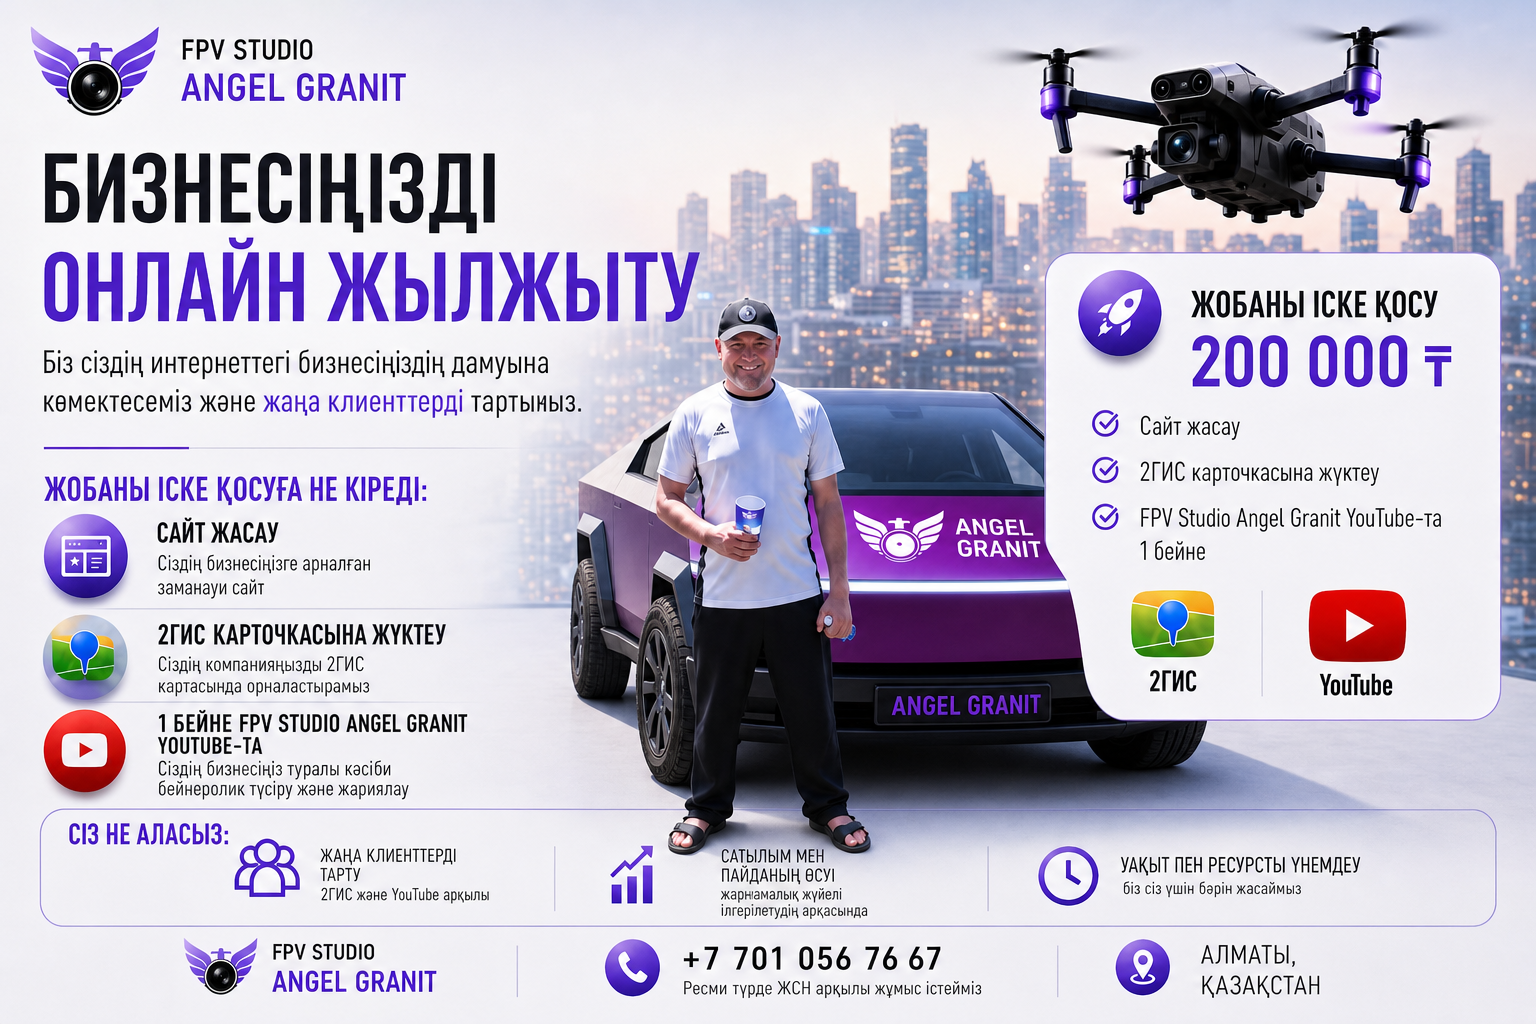
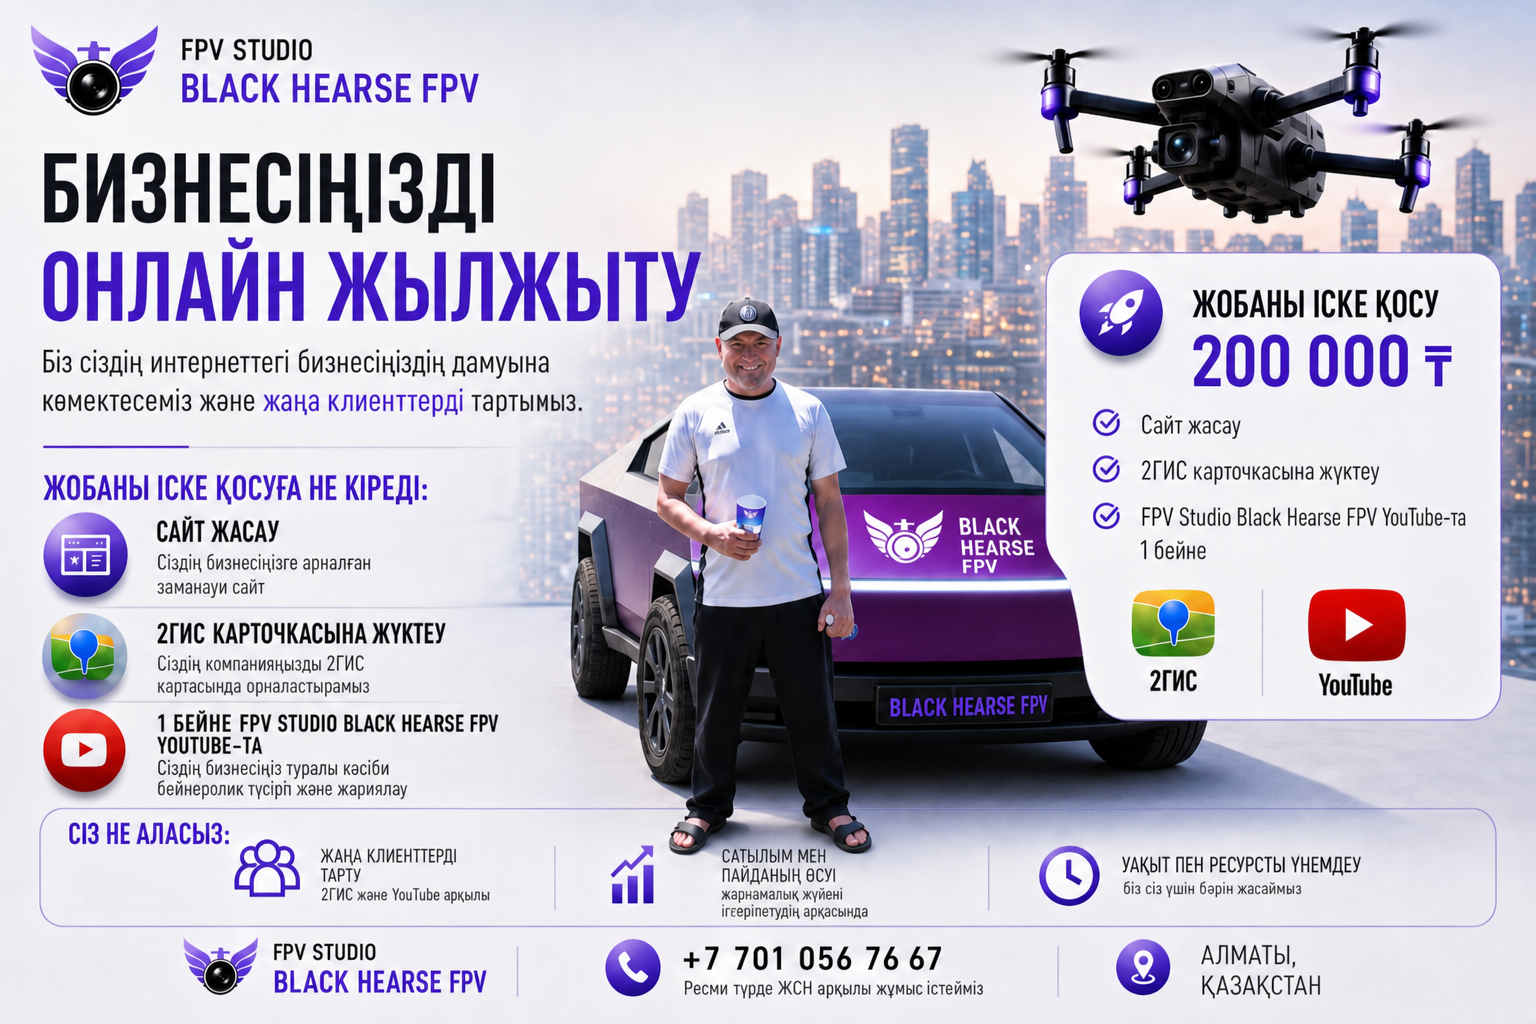
Rebrand site from Angel Granit to Black Hearse FPV.
Update copy, links, and offer banners so the new brand name is consistent on the site and images.

diff --git a/index.html b/index.html
@@ -3,13 +3,13 @@
 <head>
   <meta charset="UTF-8" />
   <meta name="viewport" content="width=device-width, initial-scale=1.0" />
-  <title>Angel Granit · Сайты · YouTube · Синематик · 2ГИС</title>
-  <meta name="description" content="Angel Granit — FPV-студия полного цикла: создание сайтов, запуск YouTube-каналов, кинематографичная FPV-съёмка для бизнеса, оформление карточек 2ГИС." />
+  <title>Black Hearse FPV · Сайты · YouTube · Синематик · 2ГИС</title>
+  <meta name="description" content="Black Hearse FPV — FPV-студия полного цикла: создание сайтов, запуск YouTube-каналов, кинематографичная FPV-съёмка для бизнеса, оформление карточек 2ГИС." />
   <meta name="robots" content="index, follow" />
   <link rel="canonical" href="https://shniakin8711-collab.github.io/Myferstproject.github.io/" />
   <meta property="og:type" content="website" />
   <meta property="og:locale" content="ru_RU" />
-  <meta property="og:title" content="Angel Granit · Цифровое производство и FPV-синематик" />
+  <meta property="og:title" content="Black Hearse FPV · Цифровое производство и FPV-синематик" />
   <meta property="og:description" content="Сайты, YouTube, FPV для бизнеса, 2ГИС — всё под ключ." />
   <meta property="og:image" content="images/offer-launch-ru.png" />
 
@@ -23,7 +23,7 @@
   {
     "@context": "https://schema.org",
     "@type": "ProfessionalService",
-    "name": "Angel Granit",
+    "name": "Black Hearse FPV",
     "description": "Создание сайтов, YouTube-каналов, FPV-синематик для бизнеса, заполнение карточек 2ГИС.",
     "address": {
       "@type": "PostalAddress",
@@ -1281,7 +1281,7 @@
     <div class="top__left">
       <a class="brand" href="#top">
         <span class="brand__icon" aria-hidden="true">✦</span>
-        <span class="brand__text">Angel<span>Granit</span></span>
+        <span class="brand__text">Black<span>Hearse</span> FPV</span>
       </a>
       <nav class="top__nav" aria-label="Навигация">
         <a href="#offer">предложение</a>
@@ -1297,7 +1297,7 @@
 
   <section class="hero" id="top" aria-label="Главный экран">
     <div class="hero__bg" aria-hidden="true">
-      <img src="images/hero-fpv-drone.png" alt="FPV-дрон Angel Granit в полёте" width="1536" height="864" decoding="async" fetchpriority="high" />
+      <img src="images/hero-fpv-drone.png" alt="FPV-дрон Black Hearse FPV в полёте" width="1536" height="864" decoding="async" fetchpriority="high" />
     </div>
     <div class="hero__scanline" aria-hidden="true"></div>
     <div class="hero__inner">
@@ -1305,9 +1305,9 @@
         <span class="hero__dots"><span></span><span></span><span></span></span>
         fpv-studio — запуск.ts
       </div>
-      <h1><span class="fn">онлайн-продвижение</span> = <span class="bracket">"Angel Granit"</span>;</h1>
+      <h1><span class="fn">онлайн-продвижение</span> = <span class="bracket">"Black Hearse FPV"</span>;</h1>
       <p class="hero__lead">
-        Запуск проекта за <code>200 000 ₸</code>: сайт, загрузка на <code>2ГИС</code> и <code>1 видео</code> на YouTube-канале FPV Studio Angel Granit.
+        Запуск проекта за <code>200 000 ₸</code>: сайт, загрузка на <code>2ГИС</code> и <code>1 видео</code> на YouTube-канале FPV Studio Black Hearse FPV.
       </p>
       <div class="hero__cta">
         <a class="btn btn--primary" href="#form">Запустить проект</a>
@@ -1347,7 +1347,7 @@
       <header class="section-head reveal">
         <p class="section-eyebrow">// offer/</p>
         <h2 class="section-title">Запуск проекта <span class="kw">200 000 ₸</span></h2>
-        <p class="section-sub">Сайт + 2ГИС + 1 видео на YouTube Angel Granit — на четырёх языках.</p>
+        <p class="section-sub">Сайт + 2ГИС + 1 видео на YouTube Black Hearse FPV — на четырёх языках.</p>
       </header>
       <div class="offer-banners__stack">
         <div class="offer-banners__item reveal">
@@ -1403,15 +1403,15 @@
         </article>
         <article class="service-card reveal">
           <div class="service-card__img">
-            <img src="images/service-youtube.png" alt="Размещение видео на YouTube-канале Angel Granit" width="800" height="450" loading="lazy" decoding="async" />
+            <img src="images/service-youtube.png" alt="Размещение видео на YouTube-канале Black Hearse FPV" width="800" height="450" loading="lazy" decoding="async" />
           </div>
           <div class="service-card__body">
             <p class="service-card__tag">разместитьВидео()</p>
             <h3>Размещение видео на YouTube</h3>
-            <p>Публикуем 1 видео на канале Angel Granit: загрузка, название, описание, обложка и теги — ролик сразу на вашем бренде.</p>
+            <p>Публикуем 1 видео на канале Black Hearse FPV: загрузка, название, описание, обложка и теги — ролик сразу на вашем бренде.</p>
             <div class="service-card__stack">
               <span class="chip">1_видео</span>
-              <span class="chip">@angelgranit</span>
+              <span class="chip">@blackhearsefpv</span>
               <span class="chip">публикация</span>
             </div>
           </div>
@@ -1478,7 +1478,7 @@
     <div class="wrap">
       <header class="section-head reveal">
         <p class="section-eyebrow">// youtube.ts</p>
-        <h2 class="section-title">Канал <span class="kw">Angel Granit</span></h2>
+        <h2 class="section-title">Канал <span class="kw">Black Hearse FPV</span></h2>
         <p class="section-sub">Смотрите ролики студии — FPV, сайты и запуск бренда.</p>
       </header>
       <div class="yt-grid reveal">
@@ -1486,7 +1486,7 @@
           <div class="yt-player__frame">
             <iframe
               src="https://www.youtube.com/embed/ICH9eLt1dE8?rel=0"
-              title="Angel Granit — YouTube"
+              title="Black Hearse FPV — YouTube"
               allow="accelerometer; autoplay; clipboard-write; encrypted-media; gyroscope; picture-in-picture; web-share"
               allowfullscreen
               loading="lazy"
@@ -1496,7 +1496,7 @@
           <div class="yt-player__bar">
             <span>ролик: <strong>портфолио_01</strong></span>
             <div class="yt-player__actions">
-              <a class="btn btn--yt" id="link-yt-player" href="https://www.youtube.com/@angelgranit" target="_blank" rel="noopener noreferrer">Открыть канал</a>
+              <a class="btn btn--yt" id="link-yt-player" href="https://www.youtube.com/@blackhearsefpv" target="_blank" rel="noopener noreferrer">Открыть канал</a>
             </div>
           </div>
         </div>
@@ -1504,7 +1504,7 @@
           <div class="yt-player__frame">
             <iframe
               src="https://www.youtube.com/embed/sryWmrJC0z4?rel=0"
-              title="Angel Granit — YouTube second video"
+              title="Black Hearse FPV — YouTube second video"
               allow="accelerometer; autoplay; clipboard-write; encrypted-media; gyroscope; picture-in-picture; web-share"
               allowfullscreen
               loading="lazy"
@@ -1514,7 +1514,7 @@
           <div class="yt-player__bar">
             <span>ролик: <strong>портфолио_02</strong></span>
             <div class="yt-player__actions">
-              <a class="btn btn--yt" href="https://www.youtube.com/@angelgranit" target="_blank" rel="noopener noreferrer">Открыть канал</a>
+              <a class="btn btn--yt" href="https://www.youtube.com/@blackhearsefpv" target="_blank" rel="noopener noreferrer">Открыть канал</a>
             </div>
           </div>
         </div>
@@ -1560,21 +1560,21 @@
           <span class="link-card__name">YouTube</span>
           <span class="link-card__desc">Портфолио и ролики</span>
         </a>
-        <a class="link-card link-card--ig reveal" id="link-ig" href="https://www.instagram.com/angelgranit_almaty" target="_blank" rel="noopener noreferrer">
+        <a class="link-card link-card--ig reveal" id="link-ig" href="https://www.instagram.com/blackhearsefpv" target="_blank" rel="noopener noreferrer">
           <span class="link-card__proto">instagram.com/</span>
           <span class="link-card__name">Instagram</span>
-          <span class="link-card__desc">@angelgranit_almaty</span>
+          <span class="link-card__desc">@blackhearsefpv</span>
         </a>
       </div>
       <div class="qr-block reveal">
         <div class="qr-block__code">
-          <img src="images/qr-site.png" alt="QR-код сайта Angel Granit" width="640" height="640" loading="lazy" decoding="async" />
+          <img src="images/qr-site.png" alt="QR-код сайта Black Hearse FPV" width="640" height="640" loading="lazy" decoding="async" />
         </div>
         <div class="qr-block__text">
           <p class="qr-block__label">qr/site</p>
           <h3 class="qr-block__title">QR-код на сайт</h3>
           <a class="qr-block__url" id="link-site-qr" href="https://shniakin8711-collab.github.io/Myferstproject.github.io/" target="_blank" rel="noopener noreferrer">shniakin8711-collab.github.io/Myferstproject.github.io</a>
-          <p class="qr-block__hint">Отсканируйте камерой телефона — откроется сайт Angel Granit. Удобно для визиток, баннеров и 2ГИС.</p>
+          <p class="qr-block__hint">Отсканируйте камерой телефона — откроется сайт Black Hearse FPV. Удобно для визиток, баннеров и 2ГИС.</p>
         </div>
       </div>
     </div>
@@ -1591,7 +1591,7 @@
         <div class="terminal-card reveal">
           <div class="terminal-card__head">
             <span class="hero__dots" aria-hidden="true"><span></span><span></span><span></span></span>
-            ~/angel-granit/контакты
+            ~/black-hearse-fpv/контакты
           </div>
           <dl class="dl">
             <div class="dl__row">
@@ -1618,11 +1618,11 @@
           <div style="display:flex;flex-wrap:wrap;gap:0.6rem;">
             <a class="btn btn--wa" id="link-wa-contact" href="https://wa.me/77010567667?text=%D0%97%D0%B4%D1%80%D0%B0%D0%B2%D1%81%D1%82%D0%B2%D1%83%D0%B9%D1%82%D0%B5!%20%D0%A5%D0%BE%D1%87%D1%83%20%D1%83%D0%B7%D0%BD%D0%B0%D1%82%D1%8C%20%D0%BE%20%D0%B2%D0%B0%D1%88%D0%B8%D1%85%20%D1%83%D1%81%D0%BB%D1%83%D0%B3%D0%B0%D1%85." target="_blank" rel="noopener noreferrer">Написать в WhatsApp</a>
             <a class="btn btn--yt" id="link-yt-contact" href="#" target="_blank" rel="noopener noreferrer">YouTube</a>
-            <a class="btn btn--ghost" id="link-ig-contact" href="https://www.instagram.com/angelgranit_almaty" target="_blank" rel="noopener noreferrer">Instagram</a>
+            <a class="btn btn--ghost" id="link-ig-contact" href="https://www.instagram.com/blackhearsefpv" target="_blank" rel="noopener noreferrer">Instagram</a>
           </div>
           <div class="qr-block qr-block--compact">
             <div class="qr-block__code">
-              <img src="images/qr-site.png" alt="QR-код — открыть сайт Angel Granit" width="640" height="640" loading="lazy" decoding="async" />
+              <img src="images/qr-site.png" alt="QR-код — открыть сайт Black Hearse FPV" width="640" height="640" loading="lazy" decoding="async" />
             </div>
             <div class="qr-block__text">
               <p class="qr-block__label">qr/site</p>
@@ -1639,7 +1639,7 @@
           <label for="f-service">услуга</label>
           <select id="f-service" name="service">
             <option value="Сайт">Создание сайта</option>
-            <option value="YouTube">Размещение 1 видео · Angel Granit</option>
+            <option value="YouTube">Размещение 1 видео · Black Hearse FPV</option>
             <option value="FPV">FPV-синематик</option>
             <option value="2ГИС">Сайт на карточке 2ГИС</option>
             <option value="Комплекс" selected>Запуск проекта — 200 000 ₸</option>
@@ -1657,7 +1657,7 @@
   </section>
 
   <footer id="footer">
-    <strong>Angel Granit</strong>
+    <strong>Black Hearse FPV</strong>
   <span class="comment">//</span> Сайты · YouTube · FPV-синематик · 2ГИС<br />
     ул. Осетинская, 5а · Алматы<br />
     ИП Шякина Н<br />
@@ -1682,8 +1682,8 @@
         waPhone: '77010567667',
         waMessage: 'Здравствуйте! Хочу узнать о ваших услугах.',
         siteUrl: 'https://shniakin8711-collab.github.io/Myferstproject.github.io/',
-        youtube: 'https://www.youtube.com/@angelgranit',
-        instagram: 'https://www.instagram.com/angelgranit_almaty'
+        youtube: 'https://www.youtube.com/@blackhearsefpv',
+        instagram: 'https://www.instagram.com/blackhearsefpv'
       };
 
       CONFIG.whatsapp = 'https://wa.me/' + CONFIG.waPhone + '?text=' + encodeURIComponent(CONFIG.waMessage);
@@ -1778,7 +1778,7 @@
         var phone = (document.getElementById('f-phone') || {}).value || '';
         var service = (document.getElementById('f-service') || {}).value || '';
         var msg = (document.getElementById('f-msg') || {}).value || '';
-        return CONFIG.waMessage + '\n\nAngel Granit — заявка:\n'
+        return CONFIG.waMessage + '\n\nBlack Hearse FPV — заявка:\n'
           + 'Имя: ' + name + '\n'
           + 'Телефон: ' + phone + '\n'
           + 'Услуга: ' + service + '\n'

diff --git a/README.md b/README.md
@@ -1,2 +1,3 @@
-# Myferstproject.github.io
-Myferstproject on Github
+# Black Hearse FPV
+FPV studio site on GitHub Pages
+
